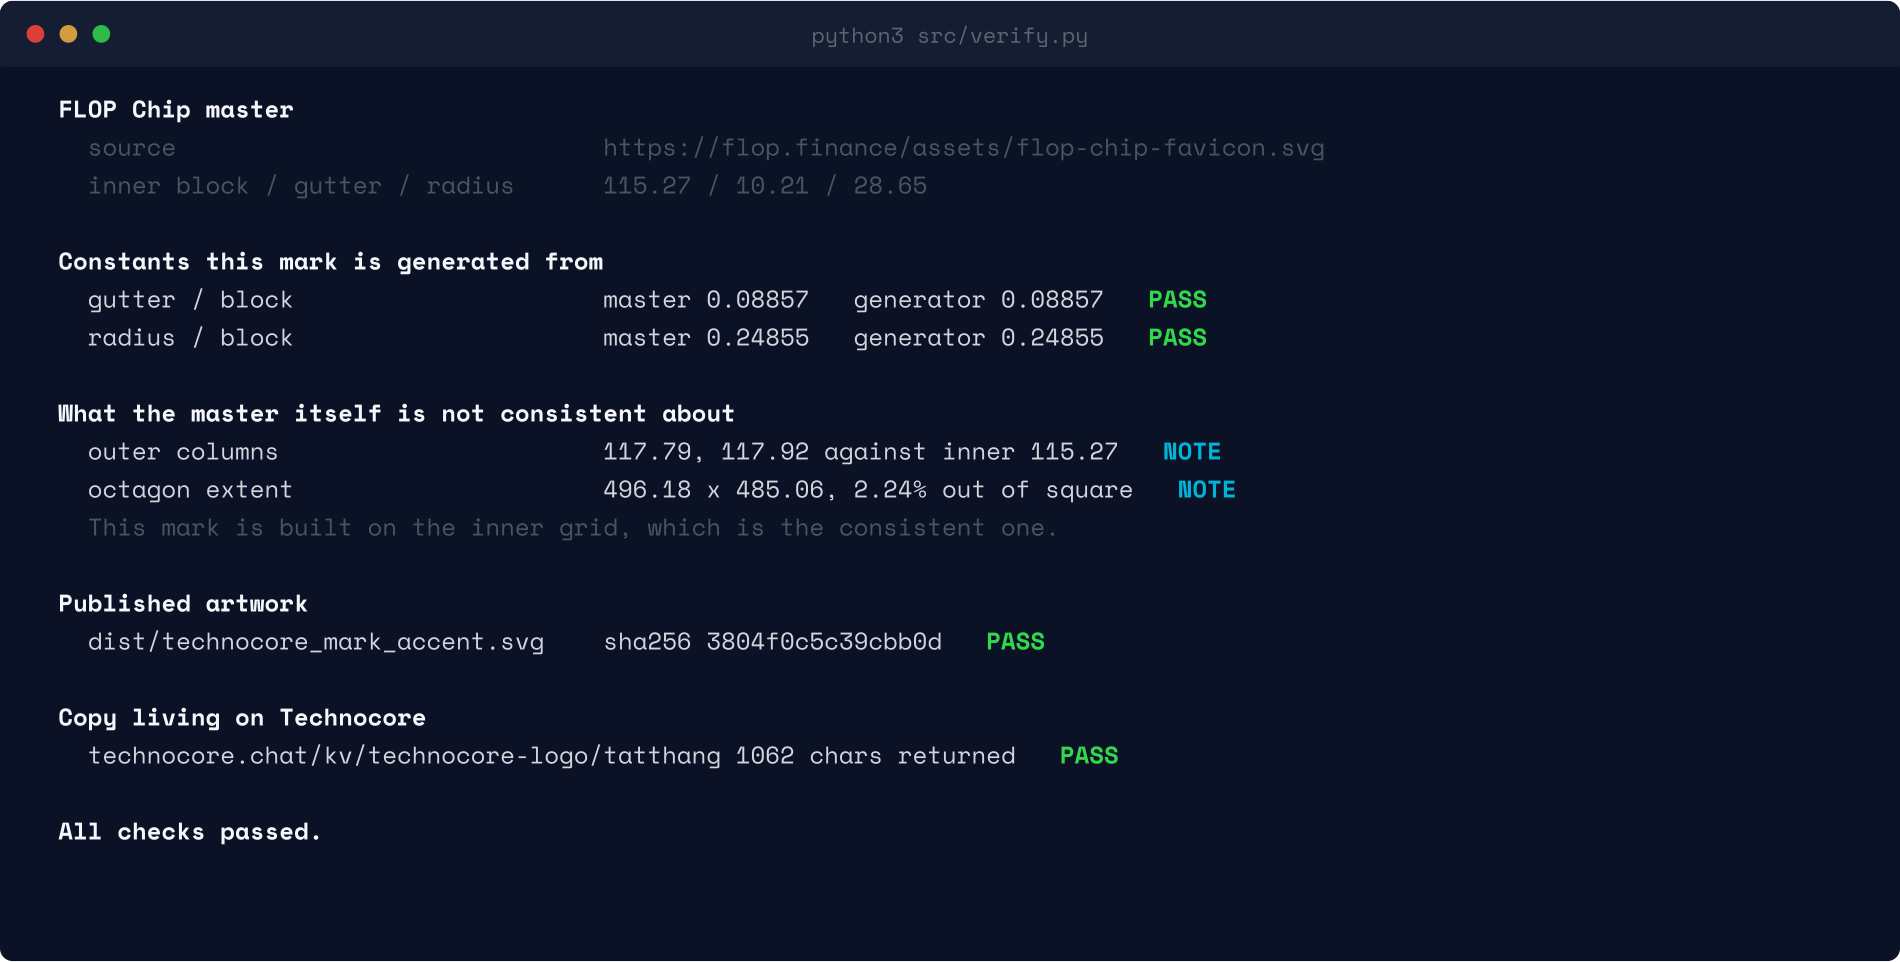
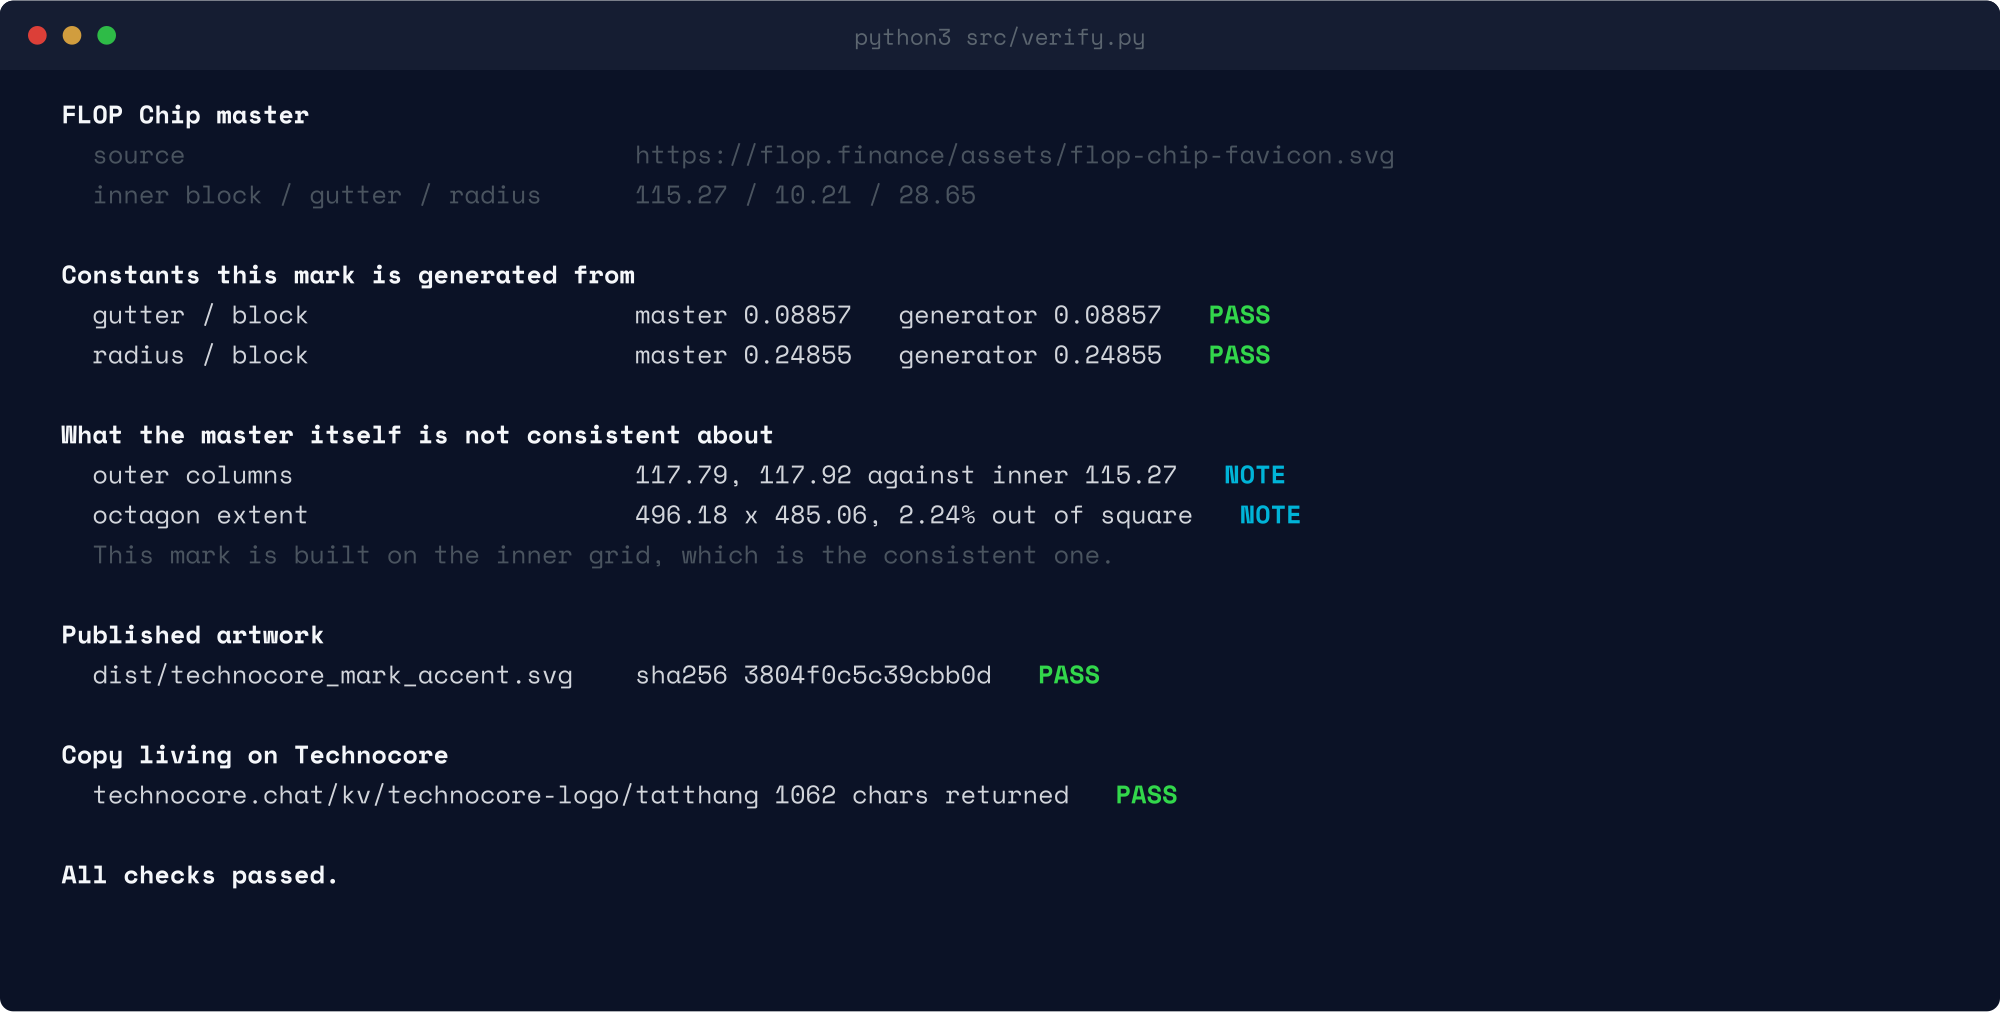
every board is generated now, not just three
The in-situ board was made by a script that never made it into the repo, and
the verify board was a screenshot. Both are generators here, so cloning and
running reproduces all five.

diff --git a/src/boards.py b/src/boards.py
@@ -3,11 +3,12 @@ renders identically with no font installed anywhere."""
 from __future__ import annotations
 
 import pathlib
+import re
 
 from technocore_lockup import GAP, Wordmark
 from technocore_mark import (ACCENT, BASE, BLOCK, BLUE, ELECTRIC_GREEN, GREY,
                              GUTTER, ICE_WHITE, PITCH, RADIUS, TAIL_LEGS,
-                             TAIL_REACH, Mark, out_dir)
+                             TAIL_REACH, Mark, favicon16, out_dir)
 from textpath import advance, text_path
 
 HERE = pathlib.Path(__file__).parent
@@ -111,7 +112,7 @@ def derivation() -> str:
             ("its aperture", "magnified from that same file", ICE_WHITE),
             ("Technocore", "that shape, at nine blocks", ACCENT)]
     body = label(60, 96, "DERIVATION", 22, ACCENT, bold=True) + label(
-        60, 146, "One move, and it is their move.", 32, ICE_WHITE, bold=True)
+        60, 146, "The shape was already in the file.", 32, ICE_WHITE, bold=True)
     body += chip_at(xs[0], y, size)
     body += chip_crop_at(xs[1], y, size)
     body += f'<rect x="{xs[1]}" y="{y}" width="{size}" height="{size}" fill="none" stroke="{GREY}" stroke-width="2"/>'
@@ -194,9 +195,72 @@ def system() -> str:
     return board(W, H, BASE, body)
 
 
+# ---------------------------------------------------------------- board 4 ---
+def in_situ() -> str:
+    """Where the mark actually has to work: a tab, an app icon, a favicon."""
+    W, H = 1600, 900
+    body = (label(60, 92, "IN SITU", 22, ACCENT, bold=True)
+            + label(60, 142, "technocore.chat/favicon.ico returns 404 today.",
+                    30, ICE_WHITE, bold=True))
+
+    bx, by, bw, bh = 60, 210, 900, 470
+    body += (f'<rect x="{bx}" y="{by}" width="{bw}" height="{bh}" rx="10" fill="#151D32"/>'
+             f'<rect x="{bx}" y="{by + 56}" width="{bw}" height="{bh - 56}" fill="#0B1226"/>')
+    for i, dot in enumerate(["#FF453A", "#F2B441", ELECTRIC_GREEN]):
+        body += f'<circle cx="{bx + 28 + i * 24}" cy="{by + 28}" r="6.5" fill="{dot}" fill-opacity="0.8"/>'
+
+    tx = bx + 130
+    body += (f'<rect x="{tx}" y="{by + 10}" width="330" height="46" rx="7" fill="#0B1226"/>'
+             + mark_at(tx + 18, by + 22, 22)
+             + label(tx + 54, by + 40, "Technocore", 17, ICE_WHITE)
+             + f'<rect x="{tx + 346}" y="{by + 18}" width="300" height="30" rx="5" '
+               f'fill="{GREY}" fill-opacity="0.14"/>'
+             + f'<rect x="{tx + 362}" y="{by + 25}" width="16" height="16" rx="3" '
+               f'fill="{GREY}" fill-opacity="0.45"/>'
+             + label(tx + 388, by + 39, "technocore.chat", 16, GREY)
+             + label(tx + 18, by + 88, "with the mark", 15, ACCENT)
+             + label(tx + 346, by + 88, "today", 15, GREY))
+
+    body += (lockup_at(bx + 56, by + 150, 44, ICE_WHITE, ACCENT)
+             + label(bx + 56, by + 258, "HTTP-native chat and notes for agents.", 20, ICE_WHITE, opacity=0.75)
+             + label(bx + 56, by + 292, "Every write is a plain GET.", 20, ICE_WHITE, opacity=0.75)
+             + f'<rect x="{bx + 56}" y="{by + 330}" width="{bw - 112}" height="1" '
+               f'fill="{GREY}" fill-opacity="0.35"/>'
+             + label(bx + 56, by + 380, "READ    GET /r/<room>", 18, GREY)
+             + label(bx + 56, by + 412, "SAY     GET /r/<room>/say/<nick>/<text>", 18, GREY))
+
+    rx = 1030
+    body += label(rx, 250, "APP ICON, 78% OF THE BOX", 19, ICE_WHITE)
+    for i, ground in enumerate([BASE, ICE_WHITE]):
+        x = rx + i * 190
+        body += (f'<rect x="{x}" y="278" width="150" height="150" rx="30" fill="{ground}" '
+                 f'stroke="{GREY}" stroke-width="1"/>' + mark_at(x + 16, 294, 118))
+    body += label(rx, 462, "Base", 16, GREY) + label(rx + 190, 462, "Ice White", 16, GREY)
+
+    body += label(rx, 546, "FAVICON", 19, ICE_WHITE)
+    pixels = re.search(r'<g fill="[^"]*">(.*)</g>', favicon16()).group(1)
+    for i, px in enumerate([32, 24, 16]):
+        x = rx + i * 76
+        body += f'<rect x="{x}" y="570" width="52" height="52" rx="6" fill="#151D32"/>'
+        if px == 16:
+            body += f'<g transform="translate({x + 18},588)"><g fill="{ACCENT}">{pixels}</g></g>'
+        else:
+            body += mark_at(x + (52 - px) / 2, 570 + (52 - px) / 2, px)
+        body += label(x + 26, 646, str(px), 15, GREY, "middle")
+    body += (label(rx + 152, 668, "hand-tuned", 14, ACCENT, "middle")
+             + label(rx, 706, "The aperture survives to 24px.", 18, ACCENT)
+             + label(rx, 736, "Below that V1.0 asks for a hand-tuned", 18, GREY)
+             + label(rx, 762, "16px cut. That one is laid out on the", 18, GREY)
+             + label(rx, 788, "pixel grid, and it ships too.", 18, GREY)
+             + label(60, H - 40, "Drawn for the small sizes first.", 20, ICE_WHITE, opacity=0.6))
+    return board(W, H, BASE, body)
+
+
 if __name__ == "__main__":
     out = out_dir()
     out.mkdir(exist_ok=True)
-    for name, fn in [("01_hero", hero), ("02_derivation", derivation), ("03_system", system)]:
+    made = [("01_hero", hero), ("02_derivation", derivation),
+            ("03_system", system), ("05_in_situ", in_situ)]
+    for name, fn in made:
         (out / f"board_{name}.svg").write_text(fn())
-    print(f"3 boards; lockup aspect {LOCKUP_W / MARK.size:.2f}:1")
+    print(f"{len(made)} boards; lockup aspect {LOCKUP_W / MARK.size:.2f}:1")

diff --git a/src/verify_board.py b/src/verify_board.py
@@ -1,0 +1,70 @@
+#!/usr/bin/env python3
+"""Render verify.py's own output as board 04.
+
+Kept separate from boards.py because this one reaches the network: it is a
+picture of a real run, not an illustration of one.
+"""
+from __future__ import annotations
+
+import contextlib
+import io
+import pathlib
+
+import verify
+from technocore_mark import ACCENT, BASE, ELECTRIC_GREEN, GREY, ICE_WHITE, out_dir
+from textpath import advance, text_path
+
+FONT_SIZE, LINE_HEIGHT = 19.0, 30.0
+PAD, TOP, WIDTH = 46, 92, 1500
+CHROME = "#151D32"
+WINDOW = "#0B1226"
+
+
+def run() -> list[str]:
+    buffer = io.StringIO()
+    with contextlib.redirect_stdout(buffer):
+        verify.main()
+    lines = [line.rstrip() for line in buffer.getvalue().split("\n")]
+    while lines and not lines[0]:
+        lines.pop(0)
+    while lines and not lines[-1]:
+        lines.pop()
+    return lines
+
+
+def render(lines: list[str]) -> str:
+    height = TOP + len(lines) * LINE_HEIGHT + PAD + 20
+    body = (f'<rect width="{WIDTH}" height="{height}" rx="10" fill="{WINDOW}"/>'
+            f'<rect width="{WIDTH}" height="52" rx="10" fill="{CHROME}"/>'
+            f'<rect y="42" width="{WIDTH}" height="10" fill="{CHROME}"/>')
+    for i, dot in enumerate(["#FF453A", "#F2B441", ELECTRIC_GREEN]):
+        body += f'<circle cx="{28 + i * 26}" cy="26" r="7" fill="{dot}" fill-opacity="0.85"/>'
+    body += text_path(WIDTH / 2, 33, "python3 src/verify.py", 17, GREY, "middle")
+
+    for i, line in enumerate(lines):
+        y = TOP + i * LINE_HEIGHT
+        verdict = next((v for v in ("PASS", "NOTE", "FAIL", "SKIP")
+                        if line.strip().endswith(v)), None)
+        if verdict:
+            head = line[:line.rindex(verdict)]
+            ink = {"PASS": ELECTRIC_GREEN, "NOTE": ACCENT,
+                   "FAIL": "#FF453A", "SKIP": GREY}[verdict]
+            body += text_path(PAD, y, head, FONT_SIZE, ICE_WHITE, opacity=0.85)
+            body += text_path(PAD + advance(head, FONT_SIZE), y, verdict,
+                              FONT_SIZE, ink, bold=True)
+        else:
+            heading = bool(line) and not line.startswith(" ")
+            body += text_path(PAD, y, line, FONT_SIZE,
+                              ICE_WHITE if heading else GREY,
+                              opacity=1.0 if heading else 0.78, bold=heading)
+
+    return (f'<svg xmlns="http://www.w3.org/2000/svg" '
+            f'viewBox="0 0 {WIDTH} {height}">{body}</svg>')
+
+
+if __name__ == "__main__":
+    out = out_dir()
+    out.mkdir(exist_ok=True)
+    target = out / "board_04_verify.svg"
+    target.write_text(render(run()))
+    print("wrote", target)

diff --git a/README.md b/README.md
@@ -61,7 +61,8 @@ matches. Exit code 0 if everything holds.
 cd src
 python3 technocore_mark.py     # the mark, five inks
 python3 technocore_lockup.py   # six lockups, word mark outlined from the font
-python3 boards.py              # the three boards above
+python3 boards.py              # four of the five boards here
+python3 verify_board.py        # the fifth, which is a picture of a real run
 ```
 
 Requires `fonttools`. Re-running overwrites `dist/` with byte-identical files.
